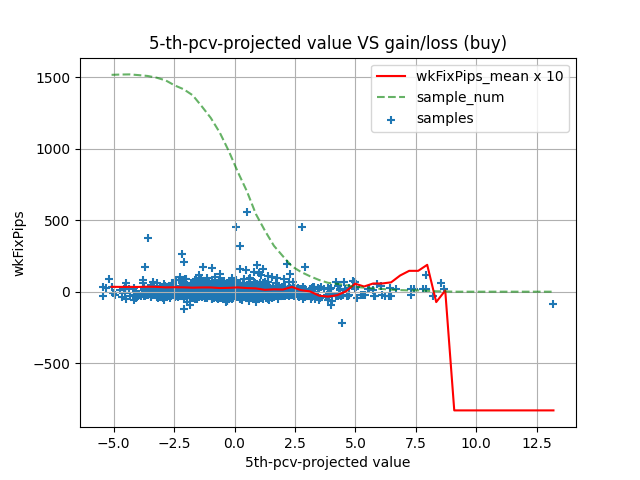
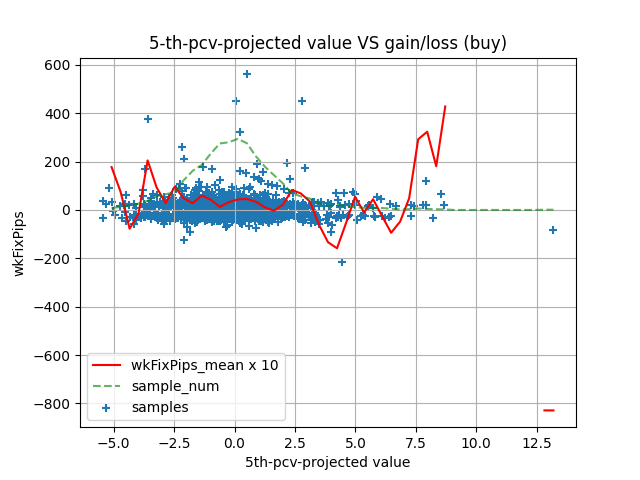
include mean std

diff --git a/check_overfit.py b/check_overfit.py
@@ -23,6 +23,7 @@ if __name__ == '__main__':
     indicators = ['wkRSI','wkBB','wkATR','wkSMA']
     y_label = 'wkFixPips'
     indicator_start_label = 'wkSMA[0][0]'
+    pc_num = 12
 
     # load csv
     df = pd.read_csv(str(csv_path))
@@ -35,30 +36,25 @@ if __name__ == '__main__':
     is_train = ent_years <= 2019
     is_test = ~is_train
 
-
     '''
     training
     '''
     pc = []
-    for bs_i, buy_or_sell in enumerate([is_buy & is_train, (~is_buy) & is_train]):
-
-        if bs_i == 0:
-            bs = 'buy'
-        else:
-            bs = 'sell'
+    for bs, target_index in zip(['buy', 'sell'],[is_buy & is_train, (~is_buy) & is_train]):
 
         # pca to compress indicator value
-        X = np.array([df.iloc[i,st_indicator:].values for i in range(len(df)) if (buy_or_sell[i])])
-        X = np.array([(X[:,i]-np.mean(X[:,i]))/np.std(X[:,i]) for i in range(len(X[0]))]).T
-        pca = PCA(n_components=6)
+        X = np.array([df.iloc[i,st_indicator:].values for i in range(len(df)) if (target_index[i])]).astype(float)
+        MN, STD = np.mean(X, axis=0), np.std(X, axis=0)
+        X = np.array([(X[:,i]-MN[i])/STD[i] for i in range(len(X[0]))]).T
+        pca = PCA(n_components=pc_num)
         pca.fit(X)
         Xd = pca.transform(X)
-        print('Cumulative contribution rate from 1st to 6th PC:')
+        print('Cumulative contribution rate from 1st to {}th PC:'.format(pc_num))
         print(np.cumsum(pca.explained_variance_ratio_))
 
-        pc.append(pca.components_)
+        pc.append(np.concatenate([MN.reshape(1,-1),STD.reshape(1,-1),pca.components_],axis=0))
 
-        for xi in range(6):
+        for xi in range(pc_num):
 
             # sliding window
             w_gp_mean, w_gp_std, w_cent, w_num = [], [], [], []
@@ -66,11 +62,11 @@ if __name__ == '__main__':
             w_stride = (w_max-w_min)/50
             w_width = w_stride*2
             for w_st in np.arange(w_min,w_max,w_stride):
+                is_w = (Xd[:,xi] >= w_st) & (Xd[:,xi] < w_st+w_width)
                 w_cent.append(w_st + (w_width/2))
-                is_w = (Xd[:,xi] >= w_st) & (Xd[:,xi] < w_st+10)
                 w_num.append(is_w.sum())
-                w_gp_mean.append(np.mean(df[y_label].values[buy_or_sell][is_w]))
-                w_gp_std.append(np.std(df[y_label].values[buy_or_sell][is_w]))
+                w_gp_mean.append(np.mean(df[y_label].values[target_index][is_w]))
+                w_gp_std.append(np.std(df[y_label].values[target_index][is_w]))
             w_cent = np.array(w_cent)
             w_gp_mean = np.array(w_gp_mean)
             w_gp_std = np.array(w_gp_std)
@@ -82,7 +78,7 @@ if __name__ == '__main__':
             plt.figure()
             plt.scatter(
                 Xd[:,xi],
-                df[y_label].values[buy_or_sell],
+                df[y_label].values[target_index],
                 label='samples',
                 marker='+')
             plt.plot(w_cent,w_gp_mean*10,color='r',label=y_label+'_mean x 10')
@@ -99,64 +95,65 @@ if __name__ == '__main__':
             plt.savefig(fname)
 
     # save principal components
-    pc = np.array(pc).reshape(len(pc[0])*2,-1)
-    df_pc= pd.DataFrame(pc.T, 
-        columns = ['buy_pc{:02}'.format(num+1) for num in range(6)]+['sell_pc{:02}'.format(num+1) for num in range(6)],
+    pc_mat = np.array(pc).reshape(len(pc[1])*2,-1)
+    df_pc= pd.DataFrame(pc_mat.T, 
+        columns = ['buy_mean', 'buy_std'] + ['buy_pc{:02}'.format(num+1) for num in range(pc_num)] + \
+            ['sell_mean', 'sell_std'] + ['sell_pc{:02}'.format(num+1) for num in range(pc_num)],
         index = keys[st_indicator:])
     print('saving: {}'.format(str(out_pc_path)))
     df_pc.to_csv(str(out_pc_path))
 
     # define threshold
-    buy_pc_rm_th = [[10,17],[8,10],[8,19],[10,15],[9,15],[5,8]]
-    sell_pc_rm_th = [[18,36],[5,12],[3,20],[3,12],[20,20],[1.5,15]]
+    pc_rm_th = {
+        'buy': [[12,21],[9.5,11],[100,100],[100,100],[3.5,4.5],[5.5,7],
+                [3,4],[2.5,3],[3.5,4.5],[100,100],[2.5,3],[-3,-2]], 
+        'sell': [[27,50],[6,11],[7.5,11],[-7,-2.5],[3,5],[3,5],
+                [2,2.5],[-4,-3],[1,2],[1.5,2],[2.5,10],[-3.5,-2]]
+        }
 
     '''
     test
     '''
+    use_pc = {'buy':[4], 'sell':[0,4,5]}
     test_results, trading_results = [], []
-    for bs_i, buy_or_sell in enumerate([is_buy & is_test, (~is_buy) & is_test]):
-
-        if bs_i == 0:
-            bs = 'buy'
-        else:
-            bs = 'sell'
-
+    for bs, target_index in zip(['buy', 'sell'],[is_buy & is_test, (~is_buy) & is_test]):
+    # for bs, target_index in zip(['buy', 'sell'],[is_buy & is_train, (~is_buy) & is_train]):
+    
         # normalize data: actually the process should use all-period data
-        X = np.array([df.iloc[i,st_indicator:].values for i in range(len(df)) if (buy_or_sell[i])])
-        X = np.array([(X[:,i]-np.mean(X[:,i]))/np.std(X[:,i]) for i in range(len(X[0]))]).T
+        X = np.array([df.iloc[i,st_indicator:].values for i in range(len(df)) if (target_index[i])]).astype(float)
+        MN, STD = df_pc[bs+'_mean'].values, df_pc[bs+'_std'].values
+        X = np.array([(X[:,i]-MN[i])/STD[i] for i in range(len(X[0]))]).T
 
         # calculate pc values
-        PC_val = np.dot(X,pc[:6,:].T)
+        col_st = list(df_pc.keys()).index(bs+'_pc01')
+        PC_val = np.dot(X, df_pc.iloc[:,col_st:col_st + pc_num].values)
 
         # make thresholding flag
         rm_flag = []
         for i in range(len(PC_val)):
-            if bs == 'buy':
-                pc_rm_th = buy_pc_rm_th
-            elif bs == 'sell':
-                pc_rm_th = sell_pc_rm_th
             rm_tmp = False
-            for pc_rm_th_i in pc_rm_th:
-                if (PC_val[i,0] >= pc_rm_th_i[0]) & (PC_val[i,0] < pc_rm_th_i[1]):
+            for j in use_pc[bs]:
+                if (PC_val[i,j] >= pc_rm_th[bs][j][0]) & (PC_val[i,j] < pc_rm_th[bs][j][1]):
                     rm_tmp = True
             rm_flag.append(rm_tmp)        
         rm_flag = np.array(rm_flag)
 
         # results
-        FixPips_sum_before = df[y_label][buy_or_sell].sum()
-        FixPips_sum_after = df[y_label][buy_or_sell][~rm_flag].sum()
+        FixPips_sum_before = df[y_label][target_index].sum()
+        FixPips_sum_after = df[y_label][target_index][~rm_flag].sum()
         trading_results.append([rm_flag.sum(), len(rm_flag)])
         test_results.append([FixPips_sum_before,FixPips_sum_after])
 
     test_results = np.array(test_results)
     print('buy:[cancel_num, trading_num], sell:[cancel_num, trading_num]')
     print(trading_results)
+    print(test_results)
 
     plt.close('all')
     plt.figure()
-    plt.bar(['buy','buy w/ pc-th','sell','sell w/ pc-th'], [test_results[0,0],0,test_results[1,0],0],alpha=0.6)
-    # plt.bar(['buy_before','buy_after','sell_before','sell_after'], [0,test_results[0,1],0,test_results[1,1]],alpha=0.6)
-    plt.bar(['buy','buy w/ pc-th','sell','sell w/ pc-th'], [0,test_results[0,1],0,test_results[1,1]],alpha=0.6)
+    x = ['buy','buy w/ pc{}-th'.format(use_pc['buy']),'sell','sell w/ pc{}-th'.format(use_pc['sell'])]
+    plt.bar(x, [test_results[0,0],0,test_results[1,0],0],alpha=0.6)
+    plt.bar(x, [0,test_results[0,1],0,test_results[1,1]],alpha=0.6)
     plt.grid(axis='y')
     plt.ylabel('sum of '+y_label)
     plt.legend()
